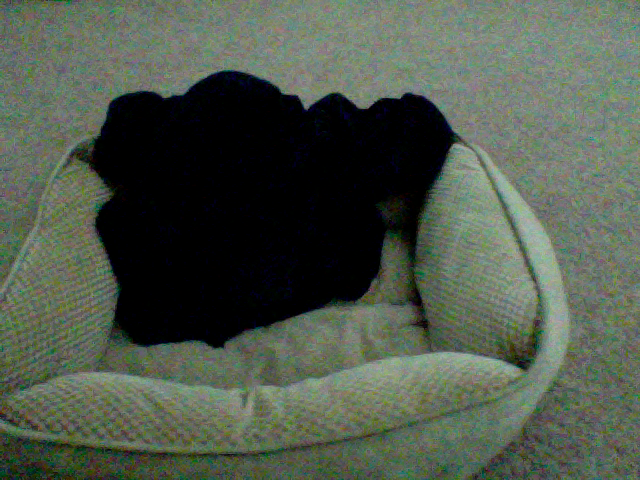
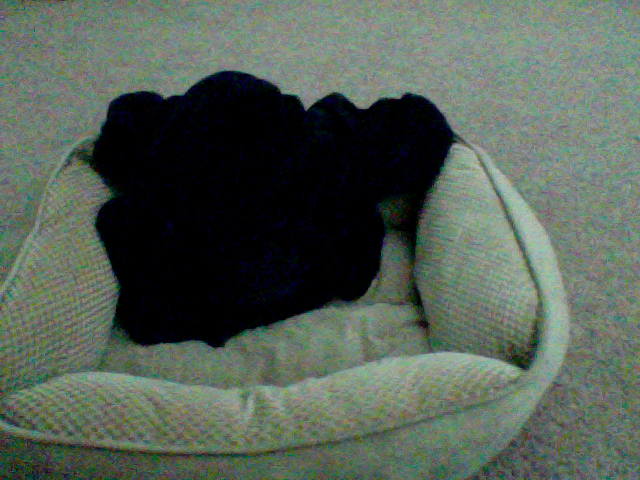
update at Month05Day08Time08:47

diff --git a/index.html b/index.html
@@ -40,7 +40,7 @@
       <div class="row">
         <div class="col-md-4">
 	<p>This picture was updated at Month05Day08Time08:47</p>
-		<img src="5_pic.png" />
+		<img src="6_pic.png" />
         </div>
       </div>
 
